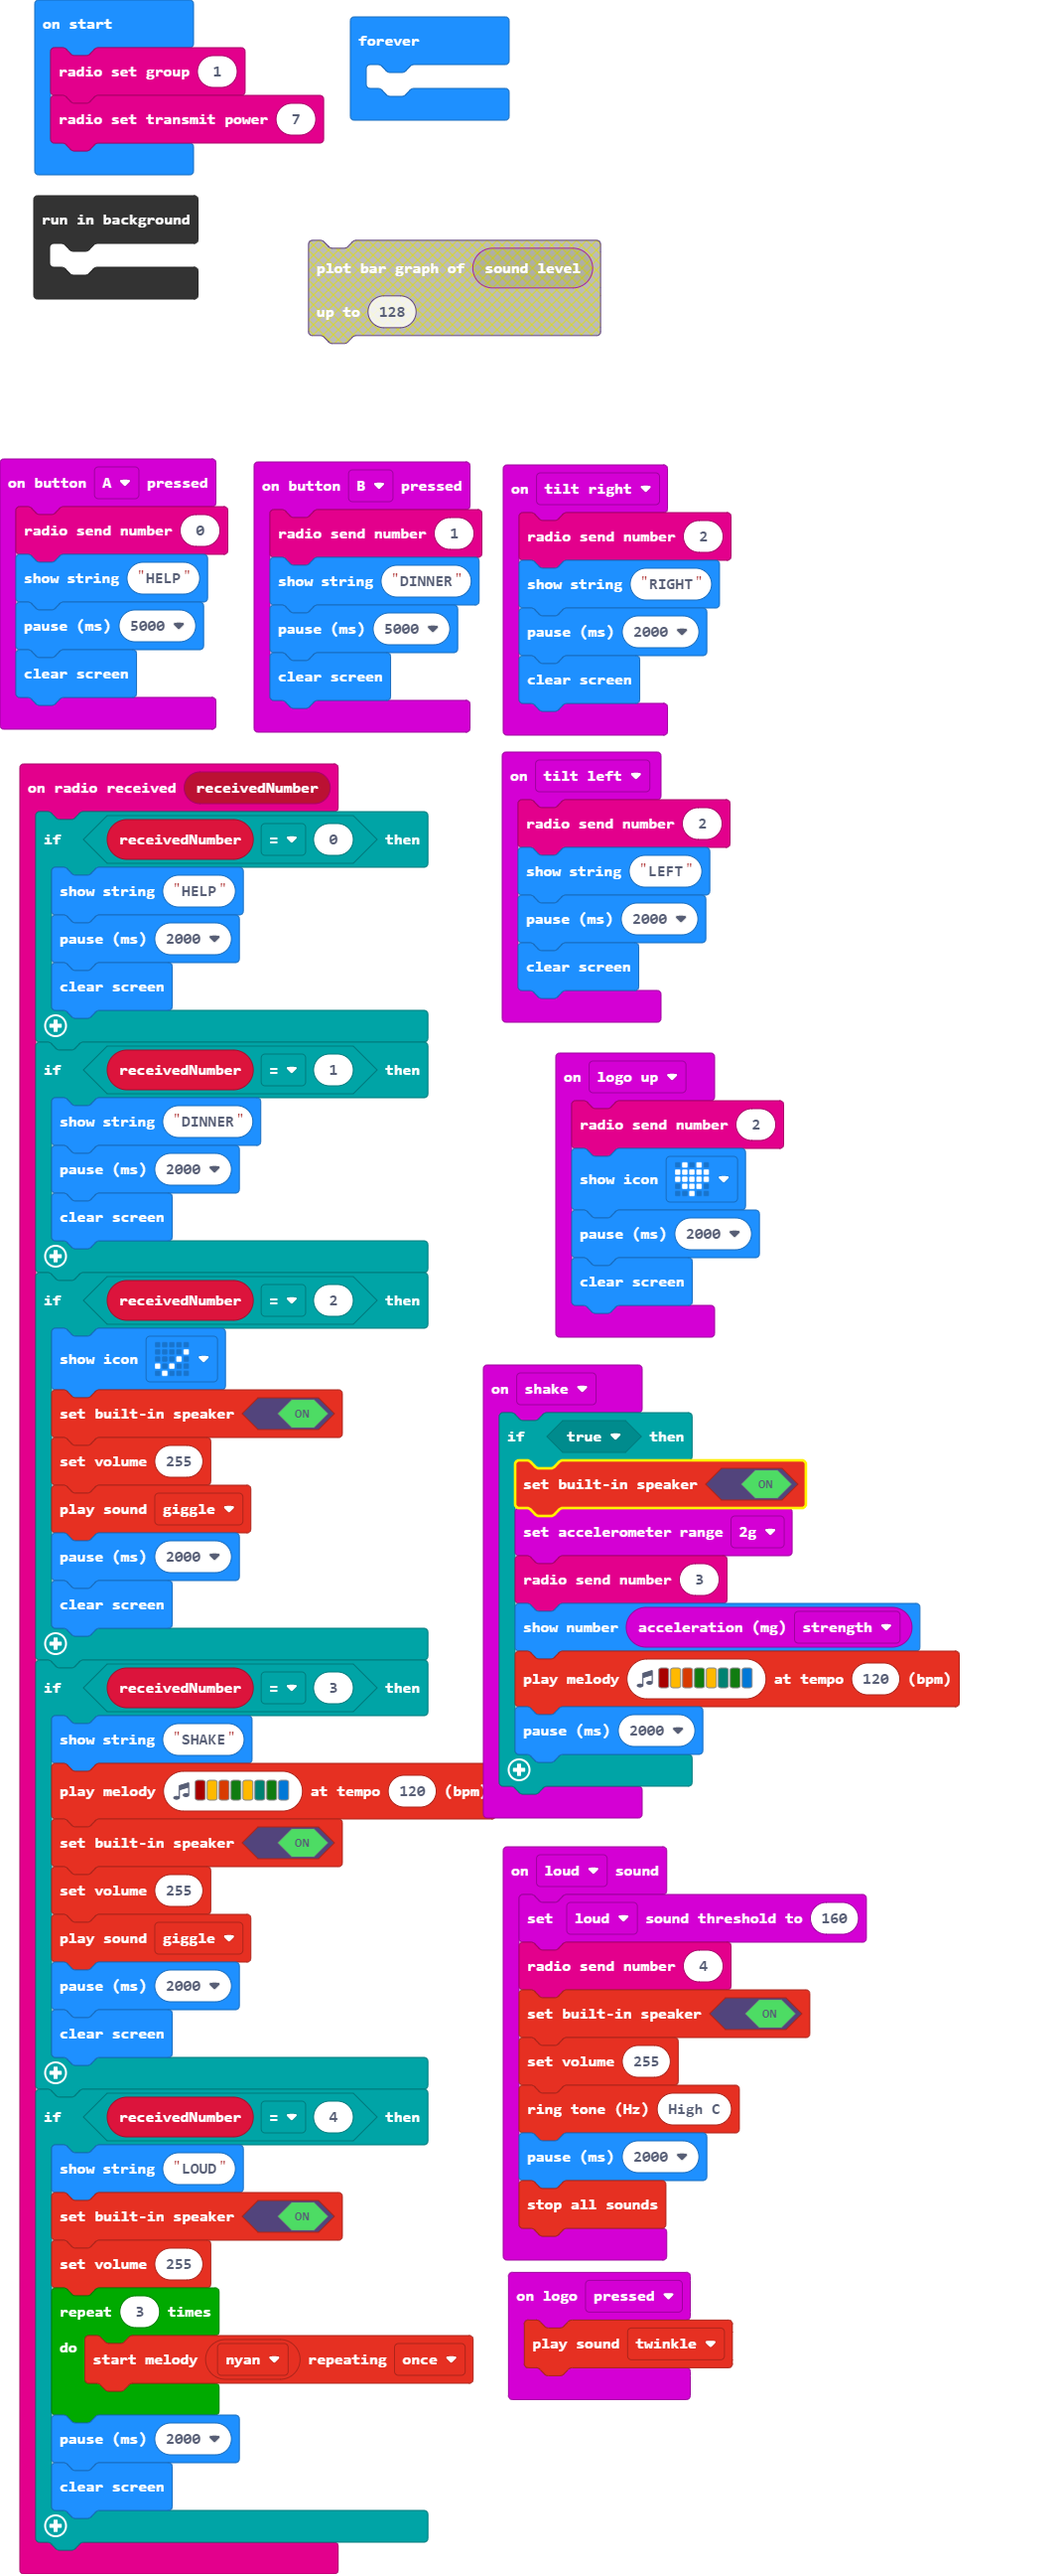
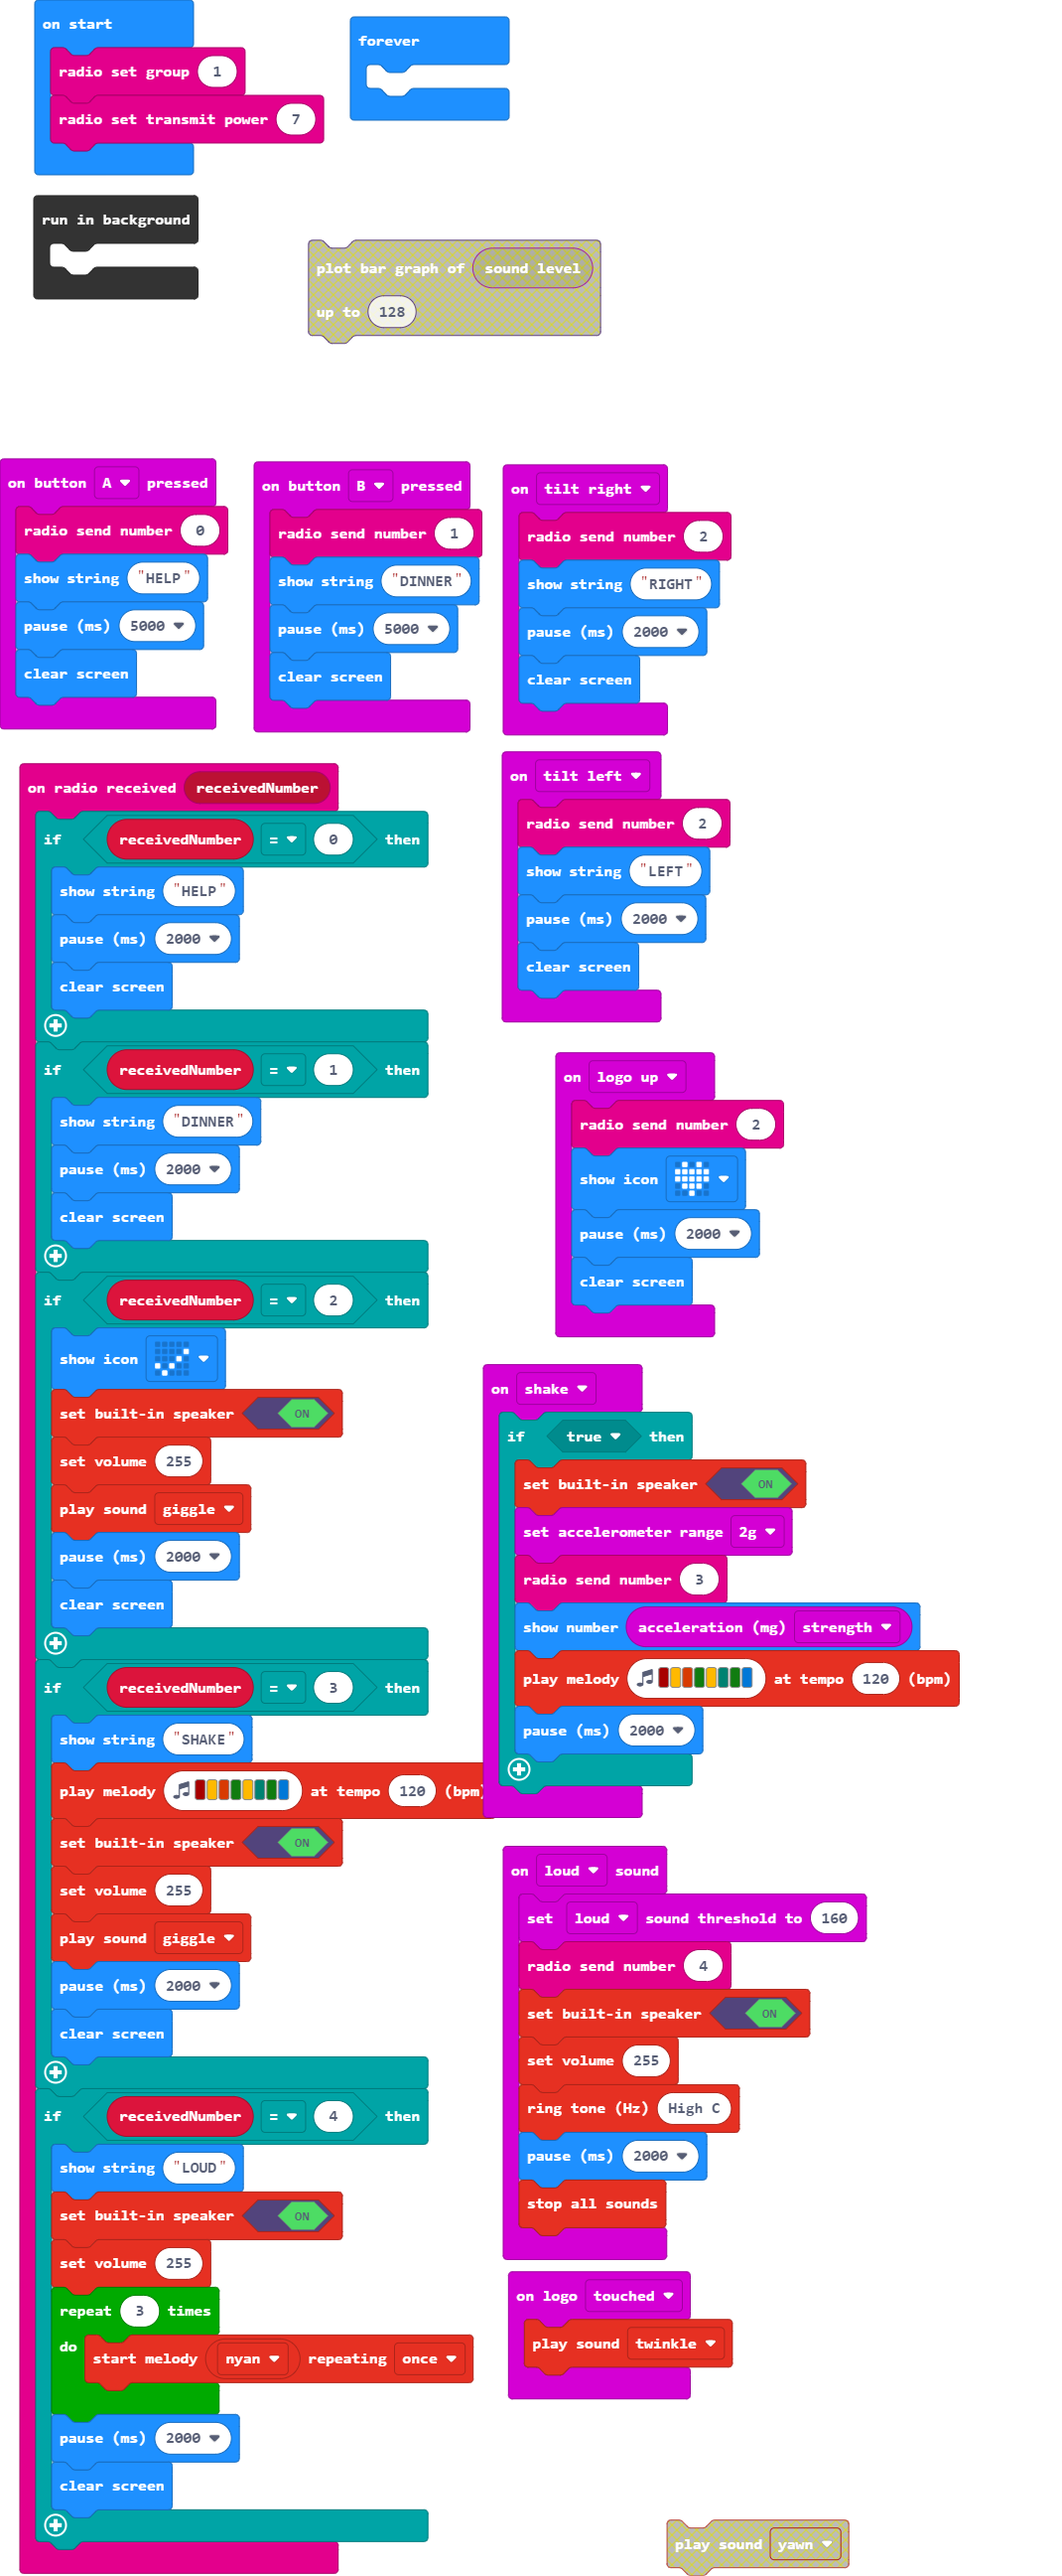
Update main.blocks, main.ts

diff --git a/main.ts b/main.ts
@@ -86,7 +86,7 @@ input.onGesture(Gesture.TiltRight, function () {
     basic.pause(2000)
     basic.clearScreen()
 })
-input.onLogoEvent(TouchButtonEvent.Pressed, function () {
+input.onLogoEvent(TouchButtonEvent.Touched, function () {
     soundExpression.twinkle.play()
 })
 radio.setGroup(1)
